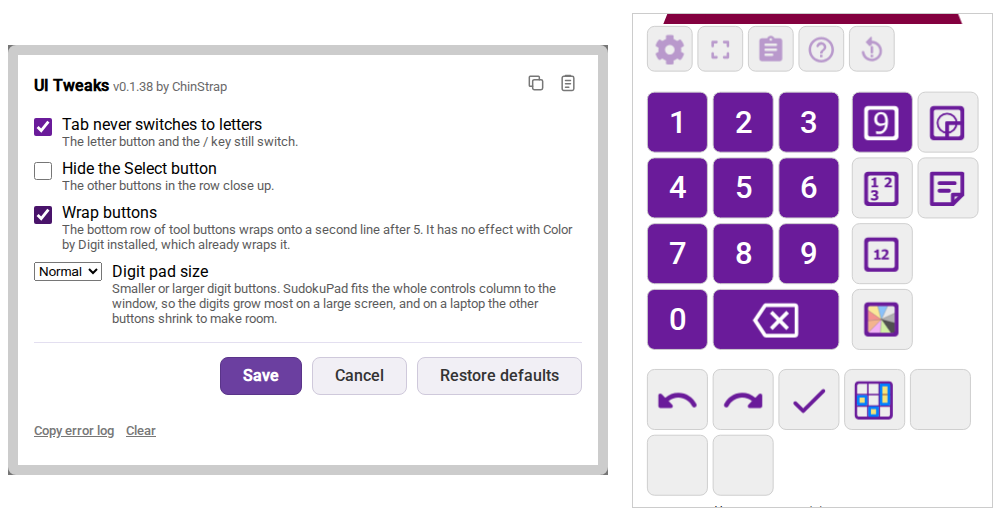
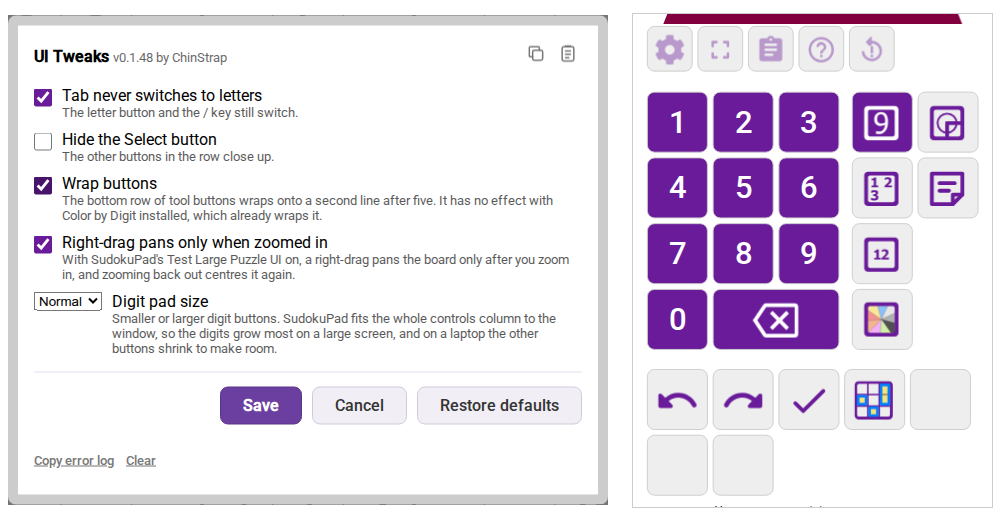
UI Tweaks: Right-drag pans only when zoomed in (#1154) (#1157)
* UI Tweaks: Right-drag pans only when zoomed in, on by default (#1154)

Wraps Large Puzzle UI's handleMousemove (returns at zoom 1) and handleZoomInOut (recentres when zoom ends at 1).

Closes #1154

* UI Tweaks: fix review findings for the right-drag option (#1154)

Closes #1154

* UI Tweaks: right-drag feature label is letters and spaces only (#1154)

Closes #1154

---------

diff --git a/test/ui-tweaks.test.js b/test/ui-tweaks.test.js
@@ -4,11 +4,11 @@ const assert = require('node:assert/strict')
 const fs = require('node:fs')
 const path = require('node:path')
 const { fakeStore } = require('./fake-store.js')
-const { OPTIONS, DIGIT_PAD_STEPS, DEFAULT_OPTIONS, readOptions, saveOptions, READERS, copiedSettings, pastedSettings, buildCss, pastedOptions, withInertTab, ignoreKey, isHeldTabToStop, lackingInternals, FEATURES } = require('../ui-tweaks.user.js')
+const { OPTIONS, DIGIT_PAD_STEPS, DEFAULT_OPTIONS, readOptions, saveOptions, READERS, copiedSettings, pastedSettings, buildCss, pastedOptions, withInertTab, ignoreKey, isHeldTabToStop, lackingInternals, FEATURES, limitRightDrag } = require('../ui-tweaks.user.js')
 
-test('the defaults: Tab never switches to letters is on, the other two are off, the digit pad is Normal', () => {
-  assert.deepEqual(DEFAULT_OPTIONS, { tab: true, hideSelect: false, wrapButtons: false, digitPad: 100 })
-  assert.deepEqual(OPTIONS.map((o) => o.id), ['tab', 'hideSelect', 'wrapButtons'])
+test('the defaults: Tab never switches to letters and Right-drag pans only when zoomed in are on, the other two are off, the digit pad is Normal', () => {
+  assert.deepEqual(DEFAULT_OPTIONS, { tab: true, hideSelect: false, wrapButtons: false, rightDrag: true, digitPad: 100 })
+  assert.deepEqual(OPTIONS.map((o) => o.id), ['tab', 'hideSelect', 'wrapButtons', 'rightDrag'])
 })
 
 test('readOptions: nothing saved reads as the defaults', () => {
@@ -19,6 +19,7 @@ test('readOptions: each saved boolean wins over its default, the others keep the
   assert.deepEqual(readOptions(fakeStore({ UiTweaks_tab: false })), { ...DEFAULT_OPTIONS, tab: false })
   assert.deepEqual(readOptions(fakeStore({ UiTweaks_hideSelect: true })), { ...DEFAULT_OPTIONS, hideSelect: true })
   assert.deepEqual(readOptions(fakeStore({ UiTweaks_wrapButtons: true })), { ...DEFAULT_OPTIONS, wrapButtons: true })
+  assert.deepEqual(readOptions(fakeStore({ UiTweaks_rightDrag: false })), { ...DEFAULT_OPTIONS, rightDrag: false })
 })
 
 test('readOptions: a saved value that is not a boolean reads as the default', () => {
@@ -28,9 +29,9 @@ test('readOptions: a saved value that is not a boolean reads as the default', ()
 
 test('saveOptions keeps every option under its own key, and readOptions reads them back', () => {
   const store = fakeStore()
-  const chosen = { tab: false, hideSelect: true, wrapButtons: true, digitPad: 125 }
+  const chosen = { tab: false, hideSelect: true, wrapButtons: true, rightDrag: false, digitPad: 125 }
   saveOptions(store, chosen)
-  assert.deepEqual(store.data, { UiTweaks_tab: false, UiTweaks_hideSelect: true, UiTweaks_wrapButtons: true, UiTweaks_digitPad: 125 })
+  assert.deepEqual(store.data, { UiTweaks_tab: false, UiTweaks_hideSelect: true, UiTweaks_wrapButtons: true, UiTweaks_rightDrag: false, UiTweaks_digitPad: 125 })
   assert.deepEqual(readOptions(store), chosen)
 })
 
@@ -47,11 +48,11 @@ test('readOptions reads a key saved at its default without removing it', () => {
 })
 
 test('the storage keys are UiTweaks_ names', () => {
-  assert.deepEqual(Object.fromEntries(OPTIONS.map((option) => [option.id, option.key])), { tab: 'UiTweaks_tab', hideSelect: 'UiTweaks_hideSelect', wrapButtons: 'UiTweaks_wrapButtons' })
+  assert.deepEqual(Object.fromEntries(OPTIONS.map((option) => [option.id, option.key])), { tab: 'UiTweaks_tab', hideSelect: 'UiTweaks_hideSelect', wrapButtons: 'UiTweaks_wrapButtons', rightDrag: 'UiTweaks_rightDrag' })
 })
 
 test('copiedSettings: the options in force, defaults included', () => {
-  assert.deepEqual(JSON.parse(copiedSettings(fakeStore({ UiTweaks_hideSelect: true, Other_key: 1 }))), { UiTweaks_tab: true, UiTweaks_hideSelect: true, UiTweaks_wrapButtons: false, UiTweaks_digitPad: 100 })
+  assert.deepEqual(JSON.parse(copiedSettings(fakeStore({ UiTweaks_hideSelect: true, Other_key: 1 }))), { UiTweaks_tab: true, UiTweaks_hideSelect: true, UiTweaks_wrapButtons: false, UiTweaks_rightDrag: true, UiTweaks_digitPad: 100 })
 })
 
 test('a paste keeps booleans under this script\'s keys and skips the rest', () => {
@@ -149,7 +150,7 @@ test('isHeldTabToStop stops only a repeated Tab, while the letter tool is on and
 })
 
 const completeSudokuPad = () => ({
-  Framework: { getApp () {}, app: { tools: {} }, addSetting () {}, showDialog () {}, closeDialog () {}, getData () {}, setData () {}, removeData () {} },
+  Framework: { getApp () {}, app: { tools: {} }, features: { largepuzzle: { handleMousemove () {}, handleZoomInOut () {}, updateTransform () {} } }, addSetting () {}, showDialog () {}, closeDialog () {}, getData () {}, setData () {}, removeData () {} },
   ToolLetter: { tool: { keyHandlers: [] } }
 })
 
@@ -159,7 +160,8 @@ test('a complete SudokuPad lacks nothing, and without one internal only the feat
     ...['addSetting', 'showDialog', 'closeDialog', 'setData', 'removeData'].map((name) => [`Framework.${name}`, (r) => { delete r.Framework[name] }, ['settings']]),
     ['Framework.getData', (r) => { delete r.Framework.getData }, ['saved']],
     ['ToolLetter.tool.keyHandlers', (r) => { delete r.ToolLetter.tool.keyHandlers }, ['tab']],
-    ['Framework.app.tools', (r) => { delete r.Framework.app.tools }, ['tab']]
+    ['Framework.app.tools', (r) => { delete r.Framework.app.tools }, ['tab']],
+    ...['handleMousemove', 'handleZoomInOut', 'updateTransform'].map((name) => [`Framework.features.largepuzzle.${name}`, (r) => { delete r.Framework.features.largepuzzle[name] }, ['rightDrag']])
   ]
   for (const [internal, remove, features] of removals) {
     const roots = completeSudokuPad()
@@ -240,4 +242,83 @@ test('buildCss: the corner and centre tools get the digit font scaled from 1.4re
 test('buildCss: the Delete key is as tall as a digit and spans two digit columns, as SudokuPad\'s 8.3rem does at 4rem', () => {
   assert.match(buildCss({ ...DEFAULT_OPTIONS, digitPad: 150 }), /button\[data-control="delete"\] \{ flex: 0 0 12\.3rem !important; width: 12\.3rem !important; height: 6rem !important; \}/)
   assert.match(buildCss({ ...DEFAULT_OPTIONS, digitPad: 80 }), /button\[data-control="delete"\] \{ flex: 0 0 6\.7rem !important; width: 6\.7rem !important; height: 3\.2rem !important; \}/)
+})
+
+// SudokuPad's Large Puzzle UI feature as far as the wrap reads it: its bound handlers are own properties, `zoomLevel` and `panPos` its state.
+function fakeLargePuzzle (zoomLevel, zoomsTo = zoomLevel) {
+  const calls = []
+  const feature = {
+    zoomLevel,
+    panPos: [30, -20],
+    handleMousemove (event) { calls.push(['pan', event]) },
+    handleZoomInOut (inOut) { feature.zoomLevel = zoomsTo; calls.push(['zoom', inOut]) },
+    updateTransform () { calls.push(['transform', [...feature.panPos]]) }
+  }
+  return { feature, calls }
+}
+
+test('limitRightDrag: with the option on, a mousemove at zoom 1 never reaches the feature, so a right-drag does not pan', () => {
+  const { feature, calls } = fakeLargePuzzle(1)
+  limitRightDrag(feature, () => true)
+  feature.handleMousemove({ buttons: 2 })
+  assert.deepEqual(calls, [])
+})
+
+test('limitRightDrag: with the option on, a mousemove zoomed in reaches the feature, which pans', () => {
+  const { feature, calls } = fakeLargePuzzle(1.4)
+  const event = { buttons: 2 }
+  limitRightDrag(feature, () => true)
+  feature.handleMousemove(event)
+  assert.deepEqual(calls, [['pan', event]])
+})
+
+test('limitRightDrag: with the option off, a mousemove at zoom 1 still reaches the feature, and the option is read at each move', () => {
+  const { feature, calls } = fakeLargePuzzle(1)
+  let on = false
+  limitRightDrag(feature, () => on)
+  feature.handleMousemove({})
+  on = true
+  feature.handleMousemove({})
+  assert.deepEqual(calls.map(([name]) => name), ['pan'])
+})
+
+test('limitRightDrag: a zoom that ends at 1 puts the board back to the centre, after the feature has zoomed', () => {
+  const { feature, calls } = fakeLargePuzzle(1.4, 1)
+  limitRightDrag(feature, () => true)
+  feature.handleZoomInOut(-1)
+  assert.deepEqual(feature.panPos, [0, 0])
+  assert.deepEqual(calls, [['zoom', -1], ['transform', [0, 0]]])
+})
+
+test('limitRightDrag: a zoom that stays above 1 leaves the pan, and with the option off a zoom to 1 leaves it too', () => {
+  const zoomed = fakeLargePuzzle(1.4)
+  limitRightDrag(zoomed.feature, () => true)
+  zoomed.feature.handleZoomInOut(1)
+  assert.deepEqual(zoomed.feature.panPos, [30, -20])
+  assert.deepEqual(zoomed.calls, [['zoom', 1]])
+  const off = fakeLargePuzzle(1.4, 1)
+  limitRightDrag(off.feature, () => false)
+  off.feature.handleZoomInOut(-1)
+  assert.deepEqual(off.feature.panPos, [30, -20])
+  assert.deepEqual(off.calls, [['zoom', -1]])
+})
+
+test('limitRightDrag returns a recentre that puts a board panned at zoom 1 back at the centre, only while the option is on', () => {
+  const on = fakeLargePuzzle(1)
+  limitRightDrag(on.feature, () => true)()
+  assert.deepEqual(on.feature.panPos, [0, 0])
+  assert.deepEqual(on.calls, [['transform', [0, 0]]])
+  const off = fakeLargePuzzle(1)
+  limitRightDrag(off.feature, () => false)()
+  assert.deepEqual(off.feature.panPos, [30, -20])
+  const zoomed = fakeLargePuzzle(1.4)
+  limitRightDrag(zoomed.feature, () => true)()
+  assert.deepEqual(zoomed.feature.panPos, [30, -20], 'a board zoomed in is left where it is')
+})
+
+test('limitRightDrag\'s recentre leaves a feature that was never turned on alone: it has no pan yet', () => {
+  const { feature, calls } = fakeLargePuzzle(1)
+  delete feature.panPos
+  limitRightDrag(feature, () => true)()
+  assert.deepEqual(calls, [])
 })

diff --git a/ui-tweaks.user.js b/ui-tweaks.user.js
@@ -1,9 +1,9 @@
 // ==UserScript==
 // @name         SudokuPad UI Tweaks
 // @namespace    https://github.com/caneff/sudokupad-scripts
-// @version      0.1.47
+// @version      0.1.48
 // @author       ChinStrap
-// @description  Small changes to SudokuPad's buttons, each chosen in a settings dialog: Tab never switches to letters, hide the Select button, wrap the bottom row of buttons after five, and make the digit buttons smaller or larger.
+// @description  Small changes to SudokuPad, each chosen in a settings dialog: Tab never switches to letters, hide the Select button, wrap the bottom row of buttons after five, make the digit buttons smaller or larger, and pan a large puzzle on a right-drag only when it is zoomed in.
 // @homepageURL  https://chinstrap45.github.io/sudokupad-scripts/
 // @supportURL   https://github.com/chinstrap45/sudokupad-scripts/issues
 // @license      MIT
@@ -23,7 +23,7 @@
   'use strict'
 
   // GM_info is absent without Tampermonkey, so the script cannot read @version; keep this equal to it.
-  const VERSION = '0.1.47'
+  const VERSION = '0.1.48'
   // The script's id, which its notices, error log and palette warnings carry. sync-lib.js reads it from this line as written.
   const SCRIPT_ID = 'ui-tweaks'
   const SCRIPT_NAME = 'UI Tweaks'
@@ -34,7 +34,8 @@
   const OPTIONS = [
     { id: 'tab', key: 'UiTweaks_tab', label: 'Tab never switches to letters', hint: 'The letter button and the / key still switch.', default: true },
     { id: 'hideSelect', key: 'UiTweaks_hideSelect', label: 'Hide the Select button', hint: 'The other buttons in the row close up.', default: false },
-    { id: 'wrapButtons', key: 'UiTweaks_wrapButtons', label: 'Wrap buttons', hint: 'The bottom row of tool buttons wraps onto a second line after five. It has no effect with Color by Digit installed, which already wraps it.', default: false }
+    { id: 'wrapButtons', key: 'UiTweaks_wrapButtons', label: 'Wrap buttons', hint: 'The bottom row of tool buttons wraps onto a second line after five. It has no effect with Color by Digit installed, which already wraps it.', default: false },
+    { id: 'rightDrag', key: 'UiTweaks_rightDrag', label: 'Right-drag pans only when zoomed in', hint: 'With SudokuPad\'s Test Large Puzzle UI on, a right-drag pans the board only after you zoom in, and zooming back out centres it again.', default: true }
   ]
   // The digit pad's step, saved under its own key as the percent of SudokuPad's own size its rule uses.
   const DIGIT_PAD = 'digitPad'
@@ -944,9 +945,44 @@
   }
   /* eslint-enable no-unused-vars */
   // </lib:sudokupad>
+  // SudokuPad's Large Puzzle UI pans on a right-drag at every zoom, because its size guard compares with a limit that is never reached
+  // (docs/research/large-puzzle-ui-right-drag.md). The feature binds its handlers as properties of itself and reads them off `this` each time
+  // it adds or removes one, so a wrapper put there before any pan starts is the one both calls see. Wrapping `handleMousemove` rather than
+  // listening on `window` leaves `mousedown` and `mouseup` alone, so a right click still reaches the scripts. The feature's own handler stops
+  // every right-button move it handles, so at zoom 1 those moves now reach the page and the scripts too. `isOn` is read at each call, so the
+  // wrapper stays in place when the option is turned off. Returns `recentre`, which puts the board at the centre when the limit is in force.
+  function limitRightDrag (feature, isOn) {
+    const { handleMousemove, handleZoomInOut } = feature
+    const atZoom1 = () => isOn() && feature.zoomLevel <= 1
+    // `panPos` exists only once the setting has been turned on (docs/research/large-puzzle-ui-right-drag.md).
+    const recentre = () => {
+      if (!atZoom1() || !feature.panPos) return
+      feature.panPos = [0, 0]
+      feature.updateTransform()
+    }
+    feature.handleMousemove = function (...args) {
+      if (!atZoom1()) return handleMousemove.apply(this, args)
+    }
+    // A zoom back to 1 puts the board at the centre, so a pan made while zoomed in never stays at zoom 1.
+    feature.handleZoomInOut = function (...args) {
+      const result = handleZoomInOut.apply(this, args)
+      recentre()
+      return result
+    }
+    return recentre
+  }
+
   const FEATURES = {
     saved: { label: 'saved options', needs: { 'Framework.getData': 'function' } },
     tab: { label: 'Tab key', needs: { 'Framework.getApp': 'function', 'ToolLetter.tool.keyHandlers': 'array', 'Framework.app.tools': 'object' } },
+    rightDrag: {
+      label: 'right drag limit',
+      needs: {
+        'Framework.features.largepuzzle.handleMousemove': 'function',
+        'Framework.features.largepuzzle.handleZoomInOut': 'function',
+        'Framework.features.largepuzzle.updateTransform': 'function'
+      }
+    },
     settings: {
       label: 'settings',
       needs: {
@@ -957,10 +993,10 @@
     }
   }
   const guard = createGuard({ script: SCRIPT_ID, name: SCRIPT_NAME, version: VERSION, features: FEATURES })
-  const { saved, tab, settings: settingsEntry } = guard.features
+  const { saved, tab, rightDrag, settings: settingsEntry } = guard.features
 
   if (typeof module !== 'undefined' && module.exports) {
-    module.exports = { VERSION, OPTIONS, DIGIT_PAD_STEPS, DEFAULT_OPTIONS, readOptions, saveOptions, pastedOptions, READERS, copiedSettings, pastedSettings, buildCss, withInertTab, ignoreKey, isHeldTabToStop, lackingInternals, FEATURES }
+    module.exports = { VERSION, OPTIONS, DIGIT_PAD_STEPS, DEFAULT_OPTIONS, readOptions, saveOptions, pastedOptions, READERS, copiedSettings, pastedSettings, buildCss, withInertTab, ignoreKey, isHeldTabToStop, lackingInternals, FEATURES, limitRightDrag }
   }
   if (typeof document === 'undefined') return
 
@@ -987,9 +1023,14 @@
     })
   }
 
+  // The board is put at the centre when the option comes on with Large Puzzle UI at zoom 1, since no right-drag can then do it.
+  let recentreBoard = () => {}
+
   function applyOptions (next) {
     const padChanged = next[DIGIT_PAD] !== options[DIGIT_PAD]
+    const rightDragTurnedOn = next.rightDrag && !options.rightDrag
     options = next
+    if (rightDragTurnedOn) recentreBoard()
     writeStyle(STYLE_ID, buildCss(next))
     applyTab(next.tab)
     if (padChanged) window.dispatchEvent(new Event('resize'))
@@ -1081,6 +1122,7 @@
 
   const start = () => {
     applyOptions(saved.run(() => readOptions(Framework), () => DEFAULT_OPTIONS))
+    rightDrag.run(() => { recentreBoard = limitRightDrag(Framework.features.largepuzzle, () => options.rightDrag) })
     listenForHeldTab()
     addSettingsEntry(dialogs, settingsEntry, { name: 'uitweaks', content: SCRIPT_NAME, open: openDialog })
   }

diff --git a/site/index.html b/site/index.html
@@ -217,15 +217,16 @@
   </section>
   <section class="row">
     <div>
-      <div class="slide-frame"><img src="https://raw.githubusercontent.com/chinstrap45/sudokupad-scripts/main/docs/research/ui-tweaks/ui-tweaks.png?v=e6ec0bc" alt="The UI Tweaks settings dialog with its four options, beside SudokuPad's controls with the bottom row of buttons wrapped onto a second line after five" width="1000" height="520"></div>
+      <div class="slide-frame"><img src="https://raw.githubusercontent.com/chinstrap45/sudokupad-scripts/main/docs/research/ui-tweaks/ui-tweaks.png?v=0e814bd" alt="The UI Tweaks settings dialog with its five options, beside SudokuPad's controls with the bottom row of buttons wrapped onto a second line after five" width="1000" height="520"></div>
     </div>
     <div class="row-text">
       <h2>UI Tweaks</h2>
-      <p>Small changes to SudokuPad's buttons, each chosen in a settings dialog: Tab never switches to letters, hide the Select button, wrap the bottom row of buttons after five, and make the digit buttons smaller or larger.</p>
+      <p>Small changes to SudokuPad, each chosen in a settings dialog: Tab never switches to letters, hide the Select button, wrap the bottom row of buttons after five, make the digit buttons smaller or larger, and pan a large puzzle on a right-drag only when it is zoomed in.</p>
       <ul>
         <li><strong>Tab never switches to letters</strong> (on at first): a stray Tab no longer switches the number pad to letters. The letter button and the / key still do.</li>
         <li><strong>Hide the Select button</strong> (off at first): takes the button out of the bottom row, and the other buttons close up.</li>
         <li><strong>Wrap buttons</strong> (off at first): the bottom row of tool buttons wraps onto a second line after five. It has no effect with Color by Digit installed, which already wraps it.</li>
+        <li><strong>Right-drag pans only when zoomed in</strong> (on at first): with SudokuPad's Test Large Puzzle UI on, a right-drag pans the board only after you zoom in, and zooming back out centres it again.</li>
         <li><strong>Digit pad size</strong> (Normal at first): Smaller, Normal, Larger or Largest digit buttons. SudokuPad fits the whole controls column to the window, so the digits grow most on a large screen, and on a laptop the other buttons shrink to make room.</li>
       </ul>
       <p class="actions"><a class="install" href="https://raw.githubusercontent.com/chinstrap45/sudokupad-scripts/main/ui-tweaks.user.js">Install<span class="visually-hidden"> UI Tweaks</span></a></p>

diff --git a/README.md b/README.md
@@ -19,7 +19,7 @@ Browse them with pictures at <https://chinstrap45.github.io/sudokupad-scripts/>.
 | Color by Digit | Colors cells, or the digits and marks in them, by digit, with colors you give to groups of digits, and keeps the colors in step as you solve. [Details](https://chinstrap45.github.io/sudokupad-scripts/color-by-digit.html) | [Install](https://raw.githubusercontent.com/chinstrap45/sudokupad-scripts/main/color-by-digit.user.js) |
 | Dark Page | Makes the page black around the puzzle, or another color chosen in a settings dialog. The control buttons, the two tool panels and the dialog's dimmed background go dark too, and puzzle colors stay as intended, unlike SudokuPad's dark mode. | [Install](https://raw.githubusercontent.com/chinstrap45/sudokupad-scripts/main/dark-page.user.js) |
 | Auto Rules Resizer | Fits SudokuPad's rules to the screen in landscape: the rules pane uses the room the page has to spare before it shrinks the text, and you can resize it by hand. | [Install](https://raw.githubusercontent.com/chinstrap45/sudokupad-scripts/main/auto-rules-resizer.user.js) |
-| UI Tweaks | Small changes to SudokuPad's buttons, each chosen in a settings dialog: Tab never switches to letters, hide the Select button, wrap the bottom row of buttons after five, and make the digit buttons smaller or larger. | [Install](https://raw.githubusercontent.com/chinstrap45/sudokupad-scripts/main/ui-tweaks.user.js) |
+| UI Tweaks | Small changes to SudokuPad, each chosen in a settings dialog: Tab never switches to letters, hide the Select button, wrap the bottom row of buttons after five, make the digit buttons smaller or larger, and pan a large puzzle on a right-drag only when it is zoomed in. | [Install](https://raw.githubusercontent.com/chinstrap45/sudokupad-scripts/main/ui-tweaks.user.js) |
 | Logic Masters Puzzle Preview | Show puzzle preview images inline on Logic Masters portal pages, cached between visits | [Install](https://raw.githubusercontent.com/chinstrap45/sudokupad-scripts/main/logic-masters-puzzle-preview.user.js) |
 
 Logic Masters Puzzle Preview's first version is by Juggler, published here with their permission.
@@ -64,11 +64,12 @@ Ported from the rules-pane fit of twitch-rules-scroller's stream script, which g
 
 ### UI Tweaks
 
-Its dialog has four options, each applied at once on Save and kept in the browser. Restore defaults sets the boxes back to how they start, as a draft that Cancel drops:
+Its dialog has five options, each applied at once on Save and kept in the browser. Restore defaults sets the boxes back to how they start, as a draft that Cancel drops:
 
 - **Tab never switches to letters** (on at first): SudokuPad binds both `/` and Tab to the letter toggle and saves the mode, so a stray Tab left the number pad on letters after a refresh. During play, Tab does what it did before, minus the toggle, and a held Tab is stopped too. The letter button and `/` still toggle, and Tab still moves focus in dialogs. It works whenever you turn the letter tool on in settings.
 - **Hide the Select button** (off at first): hides SudokuPad's Select button in the bottom row, and the other buttons close up.
 - **Wrap buttons** (off at first): the bottom row of tool buttons wraps onto a second line after five. Color by Digit already caps that row at five on its own, so with it installed this option changes nothing.
+- **Right-drag pans only when zoomed in** (on at first): with SudokuPad's Test Large Puzzle UI setting on, its right-button drag pans the board on every puzzle, even one that fits the screen and cannot be zoomed. With this option on, a right-drag pans only while you are zoomed in (the wheel zooms a puzzle that was scaled down to fit), and zooming back out to 1 puts the board back at the centre. A right click with no movement still works. At zoom 1 the drag's moves are no longer taken by SudokuPad, so they reach the other scripts like any other moves. With Test Large Puzzle UI off, or this option off, nothing changes.
 - **Digit pad size** (Normal at first): Smaller, Normal, Larger or Largest digit buttons. SudokuPad fits the whole controls column to the window, so the digits grow most on a large screen, and on a laptop the other buttons shrink to make room.
 
 Hide the Select button and Wrap buttons are style rules only, so a SudokuPad update cannot turn them off.

diff --git a/docs/research/large-puzzle-ui-right-drag.md b/docs/research/large-puzzle-ui-right-drag.md
@@ -27,3 +27,12 @@ Read from `feature-largepuzzle.js?v=0.611.0` on sudokupad.app.
     `handleWheel` attached; it still zooms only while `baseScale < C.MaxBaseScale`.
 
 Consequence (Chris, 2026-11-07): no feature may rely on a right-button drag. A right click is still usable.
+
+UI Tweaks' "Right-drag pans only when zoomed in" (#1154, on by default) wraps the feature's own `handleMousemove` and `handleZoomInOut`
+(own properties, bound by `bindHandlers`, which `addHandler` and `remHandler` read off `this` at each pan, so a wrapper put there before a pan
+starts is the one both see). The first returns at `zoomLevel <= 1`; the second sets `panPos` to `[0, 0]` after a zoom that ends at 1. Nothing
+stops `mousedown`, `mouseup` or `contextmenu`, so a right click still reaches scripts. The feature's own `handleMousemove` is what stops every
+right-button move (`preventDefault`, `stopPropagation`), so with the option on, at zoom 1 a right-drag's moves reach the page and every script;
+the earlier bullet's "no script sees a right-drag's moves" holds only while zoomed in or with the option off. The option turned on at zoom 1 also puts a board
+panned with it off back at the centre. `panPos` exists only after the setting has been turned
+on once (`reset()` sets it), so a script cannot probe it at startup.

diff --git a/GLOSSARY.md b/GLOSSARY.md
@@ -213,6 +213,8 @@ Behavior: `docs/text-anywhere.md`.
 Behavior: the README's script notes.
 
 - **Digit pad size** — see **UI Tweaks**.
+- **Large Puzzle UI** — SudokuPad's experimental setting "Test Large Puzzle UI" (`Framework.features.largepuzzle`): the wheel zooms a puzzle scaled down to fit and a
+  right-drag pans it (`docs/research/large-puzzle-ui-right-drag.md`).
 - **options** — see **UI Tweaks**.
-- **UI Tweaks** — the script `ui-tweaks.user.js`. Four **options** in one dialog: Tab never switches to letters, Hide the Select
-  button, Wrap buttons and the **Digit pad size**.
+- **UI Tweaks** — the script `ui-tweaks.user.js`. Five **options** in one dialog: Tab never switches to letters, Hide the Select
+  button, Wrap buttons, Right-drag pans only when zoomed in (about **Large Puzzle UI**) and the **Digit pad size**.
